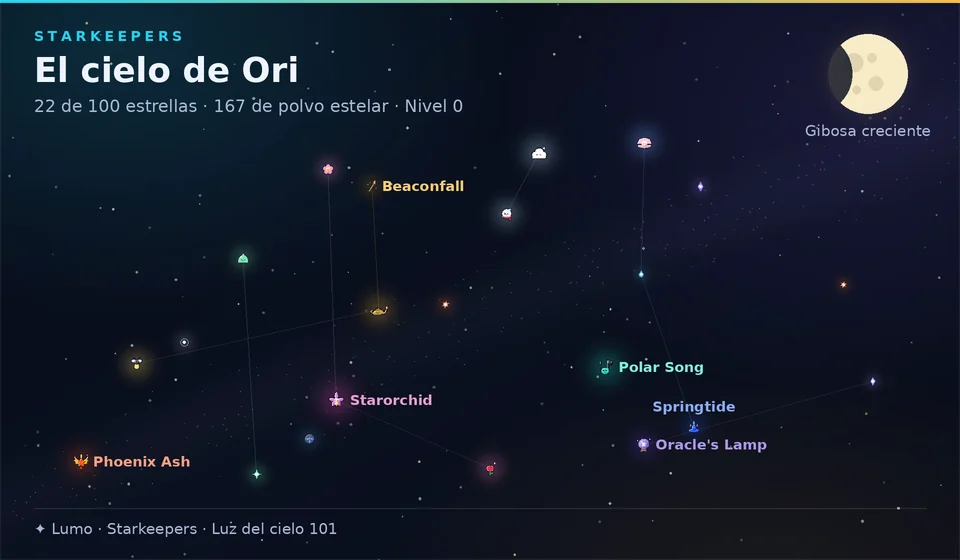
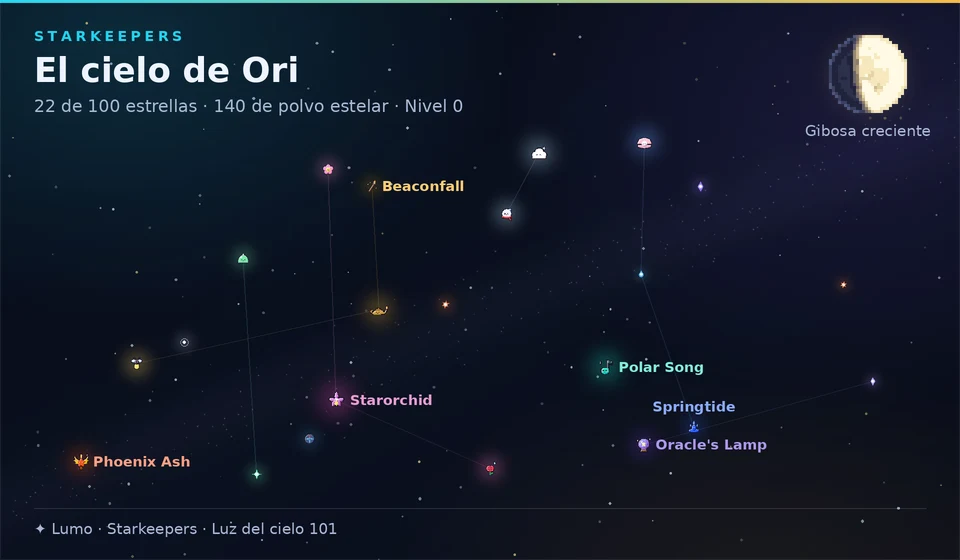
Moon's watch, lunar eclipse and pixel moons in the guide (4 languages) (#59)

Changed region(s): [[0.8438, 0.0607, 0.9688, 0.2125], [0.2188, 0.1821, 0.25, 0.2125]]

diff --git a/ja/starkeepers.html b/ja/starkeepers.html
@@ -4,7 +4,7 @@
   <meta charset="utf-8">
   <meta name="viewport" content="width=device-width, initial-scale=1">
   <title>Starkeepersの遊び方:Lumoの夜空ゲーム初心者ガイド</title>
-  <meta name="description" content="Starkeepersを一歩ずつ:毎晩の星つかまえ、レアリティとファミリー、明るさと光、自分の空とサーバーの空、星座、連続記録とタスク、旅、願い星、彗星群、実績、流れ星、日食。">
+  <meta name="description" content="Starkeepersを一歩ずつ:毎晩の星つかまえ、レアリティとファミリー、明るさと光、自分の空とサーバーの空、星座、連続記録とタスク、旅、願い星、彗星群、実績、流れ星、月食。">
   <meta name="theme-color" content="#0b0d14">
   <meta name="color-scheme" content="dark">
   <link rel="canonical" href="https://lumobot.org/ja/starkeepers.html">
@@ -95,7 +95,7 @@
         <div class="cta center"><a class="btn btn-primary" href="#start">ここから始めよう</a><a class="btn btn-ghost" href="features.html#starkeepers">機能ページを見る</a></div>
       </div>
     </header>
-    <nav class="guide-toc wrap" aria-label="このページの内容"><a href="#start"><span aria-hidden="true">🛠</span> はじめに</a><a href="#watch"><span aria-hidden="true">🔭</span> 夜の観測と星つかまえ</a><a href="#rarities"><span aria-hidden="true">✨</span> レアリティとファミリー</a><a href="#brightness"><span aria-hidden="true">🌟</span> 明るさと光</a><a href="#skies"><span aria-hidden="true">🌌</span> 自分の空とサーバーの空</a><a href="#constellations"><span aria-hidden="true">🗺</span> 星座・エリア・特典</a><a href="#streak"><span aria-hidden="true">🔥</span> 連続記録・タスク・サーバー目標</a><a href="#trips"><span aria-hidden="true">🧭</span> 星の旅とかけら</a><a href="#observatory"><span aria-hidden="true">🏛</span> 天文台</a><a href="#hunts"><span aria-hidden="true">⚔</span> ハントとバトルチーム</a><a href="#wish"><span aria-hidden="true">🌠</span> 願い星</a><a href="#shooting"><span aria-hidden="true">☄</span> 流れ星と彗星群</a><a href="#eclipse"><span aria-hidden="true">🌑</span> 日食</a><a href="#milestones"><span aria-hidden="true">🏅</span> 実績</a><a href="#story"><span aria-hidden="true">📖</span> ストーリー</a><a href="#tips"><span aria-hidden="true">💡</span> コツ</a><a href="#faq"><span aria-hidden="true">❓</span> よくある質問</a></nav>
+    <nav class="guide-toc wrap" aria-label="このページの内容"><a href="#start"><span aria-hidden="true">🛠</span> はじめに</a><a href="#watch"><span aria-hidden="true">🔭</span> 夜の観測と星つかまえ</a><a href="#rarities"><span aria-hidden="true">✨</span> レアリティとファミリー</a><a href="#brightness"><span aria-hidden="true">🌟</span> 明るさと光</a><a href="#skies"><span aria-hidden="true">🌌</span> 自分の空とサーバーの空</a><a href="#constellations"><span aria-hidden="true">🗺</span> 星座・エリア・特典</a><a href="#streak"><span aria-hidden="true">🔥</span> 連続記録・タスク・サーバー目標</a><a href="#trips"><span aria-hidden="true">🧭</span> 星の旅とかけら</a><a href="#observatory"><span aria-hidden="true">🏛</span> 天文台</a><a href="#hunts"><span aria-hidden="true">⚔</span> ハントとバトルチーム</a><a href="#wish"><span aria-hidden="true">🌠</span> 願い星</a><a href="#shooting"><span aria-hidden="true">☄</span> 流れ星と彗星群</a><a href="#eclipse"><span aria-hidden="true">🌑</span> 月食</a><a href="#milestones"><span aria-hidden="true">🏅</span> 実績</a><a href="#story"><span aria-hidden="true">📖</span> ストーリー</a><a href="#tips"><span aria-hidden="true">💡</span> コツ</a><a href="#faq"><span aria-hidden="true">❓</span> よくある質問</a></nav>
     <section class="section guide-sec" id="start">
       <div class="wrap guide-row guide-solo">
         <div class="guide-copy reveal">
@@ -190,7 +190,7 @@
         <div class="guide-copy reveal">
           <span class="kicker"><span aria-hidden="true">⚔</span> オプション · バトル</span>
           <h2>ハントとバトルチーム</h2>
-          <p>管理者がオフにしない限り、<b>翳り</b>が空を漂い、星を曇らせて近づく人に襲いかかるようにします。<code>/sky team</code> で自分の星を3つまで選び、<code>/sky hunt</code> で曇った星に挑もう。</p><ul class="checks"><li><b>チーム</b>：星にはそれぞれHP・攻撃・防御・素早さがあります。明るい星ほど少し強くなります。</li><li><b>勝つ</b>と星が<b>再点灯</b>：星屑が少しもらえて、その星が自分の空に加わるチャンスもあります（すでに持っている星なら明るくなります）。</li><li><b>負けて</b>も何も失いません。星たちは無事です。</li><li><b>クールダウン</b>：ハントは30秒に1回。ハントの星屑には毎晩の上限が別にあります。</li></ul><p>曇った星は解放済みのレア度からだけ現れ、チームに合わせて強さが決まるので、どのレベルでもフェアな勝負になります。</p><p><b>ストーリーボス</b>（管理者がオフにしない限りオン）：ストーリーの各章の最後に、翳りにのまれたボスが待っています。<code>/sky boss</code> で挑み、勝てば光が戻って次の章が開きます。負けても失うものはなく、すでに持っている章はそのままです。</p><p><b>星のプロフィール</b>：<code>/sky star</code>（またはキャッチ・コレクション・チーム・バトルのカードにある<b>見る</b>ボタン）で、どの星のページでも開けます。物語、バトルステータス、技とパッシブ、あなたの星の明るさと初めて再点灯した日。◀ ▶ で同じ系統をめくれます。まだ見つけていない星はシルエットとヒント、<b>願いにする</b>ボタンだけが表示されます。</p>
+          <p>管理者がオフにしない限り、<b>翳り</b>が空を漂い、星を曇らせて近づく人に襲いかかるようにします。<code>/sky team</code> で自分の星を3つまで選び、<code>/sky hunt</code> で曇った星に挑もう。</p><ul class="checks"><li><b>チーム</b>：星にはそれぞれHP・攻撃・防御・素早さがあります。明るい星ほど少し強くなります。</li><li><b>勝つ</b>と星が<b>再点灯</b>：星屑が少しもらえて、その星が自分の空に加わるチャンスもあります（すでに持っている星なら明るくなります）。</li><li><b>負けて</b>も何も失いません。星たちは無事です。</li><li><b>クールダウン</b>：ハントは30秒に1回。ハントの星屑には毎晩の上限が別にあります。</li></ul><p>曇った星は解放済みのレア度からだけ現れ、チームに合わせて強さが決まるので、どのレベルでもフェアな勝負になります。</p><p><b>ストーリーボス</b>（管理者がオフにしない限りオン）：ストーリーの各章の最後に、翳りにのまれたボスが待っています。<code>/sky boss</code> で挑み、勝てば光が戻って次の章が開きます。負けても失うものはなく、すでに持っている章はそのままです。</p><p><b>月も見守っています</b>：満ち欠けごとにひとつのファミリーを呼び寄せます（その星が出やすくなります）。<b>新月</b>は翳りの夜。ハントが手ごわくなり、よりレアな星が出ることも。星屑は1.5倍（1晩の上限内）。<b>満月</b>は再点灯した星が仲間になりやすく、<b>半月</b>は旅のかけらが1つ増えます。</p><p><b>星のプロフィール</b>：<code>/sky star</code>（またはキャッチ・コレクション・チーム・バトルのカードにある<b>見る</b>ボタン）で、どの星のページでも開けます。物語、バトルステータス、技とパッシブ、あなたの星の明るさと初めて再点灯した日。◀ ▶ で同じ系統をめくれます。まだ見つけていない星はシルエットとヒント、<b>願いにする</b>ボタンだけが表示されます。</p>
         </div>
         <div class="stage reveal" data-d="1"><img class="guide-shot" src="../assets/guide/ja/hunt.webp" alt="ストーリーボス戦：3つの星のチームでボスと2体の手下に挑む" width="480" height="360" loading="lazy" decoding="async"></div>
       </div>
@@ -219,10 +219,10 @@
       <div class="wrap guide-row guide-flip">
         <div class="guide-copy reveal">
           <span class="kicker"><span aria-hidden="true">🌑</span> 月に一度</span>
-          <h2>日食</h2>
-          <p>月に一度、空が2晩暗くなります。<b>日食リング</b>エリアが開き、レアやセレスティアルの星が少し出やすくなり、どの月の星も現れる可能性があり、星がたくさん降ります。</p>
+          <h2>月食</h2>
+          <p>月に一度、世界の影が月を横切り、2晩のあいだ月を赤く染めます。<b>月食リング</b>エリアが開き、レアやセレスティアルの星が少し出やすくなり、どの月の星も現れる可能性があり、星がたくさん降ります。</p>
         </div>
-        <div class="stage reveal" data-d="1"><img class="guide-shot" src="../assets/guide/ja/eclipse.webp" alt="Discordで表示される日食のアニメーション" width="420" height="236" loading="lazy" decoding="async"></div>
+        <div class="stage reveal" data-d="1"><img class="guide-shot" src="../assets/guide/ja/eclipse.webp" alt="Discordで表示される月食のアニメーション" width="420" height="236" loading="lazy" decoding="async"></div>
       </div>
     </section>
     <section class="section guide-sec" id="milestones">
@@ -240,7 +240,7 @@
         <div class="guide-copy reveal">
           <span class="kicker"><span aria-hidden="true">📖</span> 世界の物語</span>
           <h2>ストーリー</h2>
-          <p>星は壊されたのではなく、忘れられただけ。だれにも見上げられない空は、少しずつ暗くなっていきます。小さなランプロボットの<b>Lumo</b>はランタンを灯し続け、<b>全8章</b>と幕間でその物語を語ります。</p><ul class="checks"><li>章は、あなたとサーバーが遊ぶほど開いていきます。はじめての星、最初に灯った星座、新しい地域、日食など。</li><li>どの章でも<b>称号</b>がもらえ、新しい<b>背景</b>がもらえる章もあります。</li><li><code>/sky story</code> で読めます。</li></ul>
+          <p>星は壊されたのではなく、忘れられただけ。だれにも見上げられない空は、少しずつ暗くなっていきます。小さなランプロボットの<b>Lumo</b>はランタンを灯し続け、<b>全8章</b>と幕間でその物語を語ります。</p><ul class="checks"><li>章は、あなたとサーバーが遊ぶほど開いていきます。はじめての星、最初に灯った星座、新しい地域、月食など。</li><li>どの章でも<b>称号</b>がもらえ、新しい<b>背景</b>がもらえる章もあります。</li><li><code>/sky story</code> で読めます。</li></ul>
         </div>
         <div class="stage reveal" data-d="1"><img class="guide-shot" src="../assets/guide/ja/story.webp" alt="第1章「小さなランプ」のページ。手をふるLumo" width="720" height="780" loading="lazy" decoding="async"></div>
       </div>

diff --git a/es/starkeepers.html b/es/starkeepers.html
@@ -190,7 +190,7 @@
         <div class="guide-copy reveal">
           <span class="kicker"><span aria-hidden="true">⚔</span> Opcional · batallas</span>
           <h2>Cacerías y equipos de batalla</h2>
-          <p>Salvo que un admin lo desactive, la <b>Penumbra</b> recorre el cielo y apaga estrellas hasta que se vuelven contra quien se acerque. Elige hasta 3 de tus estrellas con <code>/sky team</code> y luego usa <code>/sky hunt</code> para enfrentarte a una estrella apagada.</p><ul class="checks"><li><b>Tu equipo</b>: cada estrella tiene sus propios PV, ataque, defensa y velocidad. Las más brillantes son algo más fuertes.</li><li><b>Gana</b> y la estrella queda <b>reavivada</b>: recibes un poco de polvo estelar y una probabilidad de que se una a tu cielo (una copia de una estrella que ya tienes la hace más brillante).</li><li><b>Pierde</b> y no pierdes nada. Tus estrellas están bien.</li><li><b>Espera</b>: una cacería cada 30 segundos, y el polvo estelar de las cacerías tiene su propio límite nocturno.</li></ul><p>Las estrellas apagadas solo salen de rarezas que ya desbloqueaste y se ajustan a tu equipo, así que cada cacería es una pelea justa en cualquier nivel.</p><p><b>Jefes de la historia</b> (activados salvo que un admin los desactive): cada capítulo de la historia termina con un jefe que la Penumbra se tragó. Enfréntalo con <code>/sky boss</code>; gana para reavivarlo y abrir el siguiente capítulo. Perder no cuesta nada y los capítulos que ya tienes siguen siendo tuyos.</p><p><b>Perfiles de estrellas</b>: <code>/sky star</code> (o el botón <b>Ver</b> en las tarjetas de captura, colección, equipo y combate) abre la página de cualquier estrella: su historia, estadísticas, movimientos y pasiva, cuánto brilla la tuya y cuándo la reavivaste por primera vez. ◀ ▶ recorren su familia. Una estrella que aún no has encontrado solo muestra su silueta y una pista, con un botón <b>Pedir deseo</b>.</p>
+          <p>Salvo que un admin lo desactive, la <b>Penumbra</b> recorre el cielo y apaga estrellas hasta que se vuelven contra quien se acerque. Elige hasta 3 de tus estrellas con <code>/sky team</code> y luego usa <code>/sky hunt</code> para enfrentarte a una estrella apagada.</p><ul class="checks"><li><b>Tu equipo</b>: cada estrella tiene sus propios PV, ataque, defensa y velocidad. Las más brillantes son algo más fuertes.</li><li><b>Gana</b> y la estrella queda <b>reavivada</b>: recibes un poco de polvo estelar y una probabilidad de que se una a tu cielo (una copia de una estrella que ya tienes la hace más brillante).</li><li><b>Pierde</b> y no pierdes nada. Tus estrellas están bien.</li><li><b>Espera</b>: una cacería cada 30 segundos, y el polvo estelar de las cacerías tiene su propio límite nocturno.</li></ul><p>Las estrellas apagadas solo salen de rarezas que ya desbloqueaste y se ajustan a tu equipo, así que cada cacería es una pelea justa en cualquier nivel.</p><p><b>Jefes de la historia</b> (activados salvo que un admin los desactive): cada capítulo de la historia termina con un jefe que la Penumbra se tragó. Enfréntalo con <code>/sky boss</code>; gana para reavivarlo y abrir el siguiente capítulo. Perder no cuesta nada y los capítulos que ya tienes siguen siendo tuyos.</p><p><b>La luna también vigila</b>: cada fase acerca una familia (sus estrellas salen más a menudo). La <b>luna nueva</b> es noche de Penumbra: las cacerías son más duras y pueden traer una estrella más rara, con 1,5× de polvo estelar dentro del límite diario. La <b>luna llena</b> hace que una estrella reavivada se una a ti con algo más de probabilidad, y la <b>media luna</b> añade un fragmento a los viajes.</p><p><b>Perfiles de estrellas</b>: <code>/sky star</code> (o el botón <b>Ver</b> en las tarjetas de captura, colección, equipo y combate) abre la página de cualquier estrella: su historia, estadísticas, movimientos y pasiva, cuánto brilla la tuya y cuándo la reavivaste por primera vez. ◀ ▶ recorren su familia. Una estrella que aún no has encontrado solo muestra su silueta y una pista, con un botón <b>Pedir deseo</b>.</p>
         </div>
         <div class="stage reveal" data-d="1"><img class="guide-shot" src="../assets/guide/es/hunt.webp" alt="Una pelea contra un jefe de la historia: tu equipo de tres contra un jefe y sus dos secuaces" width="480" height="360" loading="lazy" decoding="async"></div>
       </div>
@@ -220,7 +220,7 @@
         <div class="guide-copy reveal">
           <span class="kicker"><span aria-hidden="true">🌑</span> Una vez al mes</span>
           <h2>El eclipse</h2>
-          <p>Una vez al mes el cielo se oscurece dos noches. Se abre la región del <b>Anillo del Eclipse</b>, las estrellas raras y celestiales salen un poco más, puede aparecer cualquier estrella de luna y caen más estrellas.</p>
+          <p>Una vez al mes la sombra del mundo cruza la luna y la vuelve roja durante dos noches. Se abre la región del <b>Anillo del Eclipse</b>, las estrellas raras y celestiales salen un poco más, puede aparecer cualquier estrella de luna y caen más estrellas.</p>
         </div>
         <div class="stage reveal" data-d="1"><img class="guide-shot" src="../assets/guide/es/eclipse.webp" alt="La animación del eclipse tal como aparece en Discord" width="420" height="236" loading="lazy" decoding="async"></div>
       </div>

diff --git a/pt-br/starkeepers.html b/pt-br/starkeepers.html
@@ -190,7 +190,7 @@
         <div class="guide-copy reveal">
           <span class="kicker"><span aria-hidden="true">⚔</span> Opcional · batalhas</span>
           <h2>Caçadas e times de batalha</h2>
-          <p>A menos que um admin desligue, a <b>Penumbra</b> atravessa o céu e apaga estrelas até elas se voltarem contra quem chega perto. Escolha até 3 das suas estrelas com <code>/sky team</code> e depois use <code>/sky hunt</code> para enfrentar uma estrela apagada.</p><ul class="checks"><li><b>Seu time</b>: cada estrela tem seus próprios PV, ataque, defesa e velocidade. Estrelas mais brilhantes são um pouco mais fortes.</li><li><b>Vença</b> e a estrela é <b>reacesa</b>: você ganha um pouco de poeira estelar e uma chance de ela entrar no seu céu (uma cópia de uma estrela que você já tem a deixa mais brilhante).</li><li><b>Perca</b> e nada é perdido. Suas estrelas estão bem.</li><li><b>Espera</b>: uma caçada a cada 30 segundos, e a poeira estelar das caçadas tem seu próprio limite por noite.</li></ul><p>As estrelas apagadas só vêm de raridades que você já desbloqueou e se ajustam ao seu time, então cada caçada é uma luta justa em qualquer nível.</p><p><b>Chefes da história</b> (ligados, a menos que um admin desligue): cada capítulo da história termina com um chefe que a Penumbra engoliu. Enfrente-o com <code>/sky boss</code>; vença para reacendê-lo e abrir o próximo capítulo. Perder não custa nada, e os capítulos que você já tem continuam seus.</p><p><b>Perfis de estrelas</b>: <code>/sky star</code> (ou o botão <b>Ver</b> nos cartões de captura, coleção, equipe e batalha) abre a página de qualquer estrela: sua história, atributos, golpes e passiva, o brilho da sua e quando você a reacendeu pela primeira vez. ◀ ▶ percorrem a família. Uma estrela que você ainda não encontrou mostra só a silhueta e uma dica, com um botão <b>Fazer desejo</b>.</p>
+          <p>A menos que um admin desligue, a <b>Penumbra</b> atravessa o céu e apaga estrelas até elas se voltarem contra quem chega perto. Escolha até 3 das suas estrelas com <code>/sky team</code> e depois use <code>/sky hunt</code> para enfrentar uma estrela apagada.</p><ul class="checks"><li><b>Seu time</b>: cada estrela tem seus próprios PV, ataque, defesa e velocidade. Estrelas mais brilhantes são um pouco mais fortes.</li><li><b>Vença</b> e a estrela é <b>reacesa</b>: você ganha um pouco de poeira estelar e uma chance de ela entrar no seu céu (uma cópia de uma estrela que você já tem a deixa mais brilhante).</li><li><b>Perca</b> e nada é perdido. Suas estrelas estão bem.</li><li><b>Espera</b>: uma caçada a cada 30 segundos, e a poeira estelar das caçadas tem seu próprio limite por noite.</li></ul><p>As estrelas apagadas só vêm de raridades que você já desbloqueou e se ajustam ao seu time, então cada caçada é uma luta justa em qualquer nível.</p><p><b>Chefes da história</b> (ligados, a menos que um admin desligue): cada capítulo da história termina com um chefe que a Penumbra engoliu. Enfrente-o com <code>/sky boss</code>; vença para reacendê-lo e abrir o próximo capítulo. Perder não custa nada, e os capítulos que você já tem continuam seus.</p><p><b>A lua também vigia</b>: cada fase chama uma família para perto (suas estrelas aparecem mais). A <b>lua nova</b> é noite de Penumbra: as caçadas ficam mais difíceis e podem trazer uma estrela mais rara, com 1,5× de poeira estelar dentro do limite da noite. A <b>lua cheia</b> deixa uma estrela reacesa um pouco mais propensa a ficar com você, e a <b>meia-lua</b> soma um fragmento às viagens.</p><p><b>Perfis de estrelas</b>: <code>/sky star</code> (ou o botão <b>Ver</b> nos cartões de captura, coleção, equipe e batalha) abre a página de qualquer estrela: sua história, atributos, golpes e passiva, o brilho da sua e quando você a reacendeu pela primeira vez. ◀ ▶ percorrem a família. Uma estrela que você ainda não encontrou mostra só a silhueta e uma dica, com um botão <b>Fazer desejo</b>.</p>
         </div>
         <div class="stage reveal" data-d="1"><img class="guide-shot" src="../assets/guide/pt-br/hunt.webp" alt="Uma luta contra um chefe da história: seu time de três contra um chefe e seus dois capangas" width="480" height="360" loading="lazy" decoding="async"></div>
       </div>
@@ -220,7 +220,7 @@
         <div class="guide-copy reveal">
           <span class="kicker"><span aria-hidden="true">🌑</span> Uma vez por mês</span>
           <h2>O eclipse</h2>
-          <p>Uma vez por mês o céu escurece por duas noites. A região do <b>Anel do Eclipse</b> se abre, estrelas raras e celestiais aparecem um pouco mais, qualquer estrela lunar pode surgir e caem mais estrelas.</p>
+          <p>Uma vez por mês a sombra do mundo cruza a lua e a deixa vermelha por duas noites. A região do <b>Anel do Eclipse</b> se abre, estrelas raras e celestiais aparecem um pouco mais, qualquer estrela lunar pode surgir e caem mais estrelas.</p>
         </div>
         <div class="stage reveal" data-d="1"><img class="guide-shot" src="../assets/guide/pt-br/eclipse.webp" alt="A animação do eclipse como aparece no Discord" width="420" height="236" loading="lazy" decoding="async"></div>
       </div>

diff --git a/ja/features.html b/ja/features.html
@@ -326,7 +326,7 @@
         <article class="bento-tile b-1 reveal"><span class="f-icon" aria-hidden="true">📊</span><div><h3>プロフィール＆ランク <span class="badge b-any">無料</span></h3><p>レベルと集められる14種類のバッジがわかる<code>/profile</code>カード、<code>/top</code>ランキング、<code>/server</code>のサーバー概要。</p></div></article>
         <article class="bento-tile b-1 reveal"><span class="f-icon" aria-hidden="true">👋</span><div><h3>ウェルカムカード <span class="badge b-any">無料</span></h3><p>新メンバー全員にアバターと名前入りのウェルカムカード。文面はダッシュボードで変更できます。</p></div></article>
         <article class="bento-tile b-1 reveal"><span class="f-icon" aria-hidden="true">🌟</span><div><h3>レベル <span class="badge b-any">無料</span></h3><p>チャットやボイスの時間でXPとレベルが上がります（全サーバー共通の仕組み）。<code>/rank</code>カードと<code>/top</code>のレベルランキングつき。レベルアップ通知とレベルロールはダッシュボードでオンにできます。</p></div></article>
-        <article class="bento-tile b-1 reveal"><span class="f-icon" aria-hidden="true">🌌</span><div><h3>Starkeepers <span class="badge b-any">無料</span> <span class="badge b-beta">ベータ</span></h3><p>Lumo の夜空ゲーム：<code>/sky watch</code> で毎晩星をつかまえ（満月は5個、月の満ち欠けで出る星も）、チャットやゲームでためた星くずで明るくし、<code>/sky view</code> で自分の空をながめよう。みんなで <code>/sky server</code> を使い、サーバーの空にある16の星座（6つの地域に14、日食の環のイベント中だけひらく2）に星を置いて、バッジと小さなサーバー特典を手に入れよう。管理者がえらんだチャンネルには流れ星が落ち（最初にボタンを押した3人がつかまえます）、毎月の日食で日食の環がひらき、<code>/top</code> には星の観測者ランキングがあります。集められる星は100個、交換はありません。最初からオンです（管理者はダッシュボードでオフにできます）。</p></div></article>
+        <article class="bento-tile b-1 reveal"><span class="f-icon" aria-hidden="true">🌌</span><div><h3>Starkeepers <span class="badge b-any">無料</span> <span class="badge b-beta">ベータ</span></h3><p>Lumo の夜空ゲーム：<code>/sky watch</code> で毎晩星をつかまえ（満月は5個、月の満ち欠けで出る星も）、チャットやゲームでためた星くずで明るくし、<code>/sky view</code> で自分の空をながめよう。みんなで <code>/sky server</code> を使い、サーバーの空にある16の星座（6つの地域に14、月食の環のイベント中だけひらく2）に星を置いて、バッジと小さなサーバー特典を手に入れよう。管理者がえらんだチャンネルには流れ星が落ち（最初にボタンを押した3人がつかまえます）、毎月の月食で月食の環がひらき、<code>/top</code> には星の観測者ランキングがあります。集められる星は100個、交換はありません。最初からオンです（管理者はダッシュボードでオフにできます）。</p></div></article>
         <article class="bento-tile b-1 reveal"><span class="f-icon" aria-hidden="true">🖥</span><div><h3>Webダッシュボード（ベータ） <span class="badge b-any">無料</span></h3><p>サーバー管理者はDiscordでログインして、ウェルカムカードのカスタマイズ、ログと参加時ロールの設定、リアクションロール・レベル・カスタマイズ・プレゼント企画・投票の管理、利用状況の確認ができます。</p></div></article>
         <article class="bento-tile b-1 reveal"><span class="f-icon" aria-hidden="true">🧭</span><div><h3>AIチャンネル <span class="badge b-premium">Premium</span></h3><p>LumoのAIチャットが返信する場所を管理者が選べます：全チャンネル、一部のチャンネルだけ、一部を除く全チャンネル。チャンネルごとの口調や、メンションされたときだけ返信する設定も可能です。</p></div></article>
         <article class="bento-tile b-1 reveal"><span class="f-icon" aria-hidden="true">⚖</span><div><h3>公正利用の上限 <span class="badge b-premium">Premium</span></h3><p>1人あたりAI返信は1日20回、画像・動画は月2件。サーバーあたりAI返信は1日100回、画像・動画は月15件。音楽、ゲーム、プレゼント企画、投票はカウントされません。</p></div></article>

diff --git a/starkeepers.html b/starkeepers.html
@@ -189,7 +189,7 @@
         <div class="guide-copy reveal">
           <span class="kicker"><span aria-hidden="true">⚔</span> Optional · battles</span>
           <h2>Hunts and battle teams</h2>
-          <p>Unless an admin turns it off, the <b>Dimming</b> drifts across the sky and dulls stars until they turn on anyone who comes near. Pick up to 3 of your stars with <code>/sky team</code>, then run <code>/sky hunt</code> to face a dimmed star.</p><ul class="checks"><li><b>Your team</b>: every star has its own HP, attack, defense and speed. Brighter stars are a little stronger.</li><li><b>Win</b> and the star is <b>rekindled</b>: you get a little stardust and a chance it joins your sky (a copy of a star you have makes it brighter).</li><li><b>Lose</b> and nothing is lost. Your stars are fine.</li><li><b>Cooldown</b>: one hunt every 30 seconds, and hunt stardust has its own nightly cap.</li></ul><p>Dimmed stars only come from rarities you’ve unlocked, and they’re matched to your team, so a hunt is a fair fight at any level.</p><p><b>Story bosses</b> (on unless an admin turns them off): every story chapter ends with a boss the Dimming swallowed. Face it with <code>/sky boss</code>; win to rekindle it and open the next chapter. Losing costs nothing, and chapters you already have stay yours.</p><p><b>Star profiles</b>: <code>/sky star</code> (or the <b>View</b> button on catch, collection, team and battle cards) opens any star’s page: its lore, battle stats, moves and passive, how bright yours is and when you first rekindled it. ◀ ▶ step through its family. A star you haven’t found yet shows only its silhouette and a hint, with a <b>Set wish</b> button.</p>
+          <p>Unless an admin turns it off, the <b>Dimming</b> drifts across the sky and dulls stars until they turn on anyone who comes near. Pick up to 3 of your stars with <code>/sky team</code>, then run <code>/sky hunt</code> to face a dimmed star.</p><ul class="checks"><li><b>Your team</b>: every star has its own HP, attack, defense and speed. Brighter stars are a little stronger.</li><li><b>Win</b> and the star is <b>rekindled</b>: you get a little stardust and a chance it joins your sky (a copy of a star you have makes it brighter).</li><li><b>Lose</b> and nothing is lost. Your stars are fine.</li><li><b>Cooldown</b>: one hunt every 30 seconds, and hunt stardust has its own nightly cap.</li></ul><p>Dimmed stars only come from rarities you’ve unlocked, and they’re matched to your team, so a hunt is a fair fight at any level.</p><p><b>Story bosses</b> (on unless an admin turns them off): every story chapter ends with a boss the Dimming swallowed. Face it with <code>/sky boss</code>; win to rekindle it and open the next chapter. Losing costs nothing, and chapters you already have stay yours.</p><p><b>The moon keeps watch too</b>: each phase calls one family closer (its stars show up more often). A <b>new moon</b> is a Dimming night: hunts are tougher and can bring a rarer star, for 1.5× stardust inside the nightly cap. A <b>full moon</b> makes a rekindled star a little likelier to join you, and a <b>half moon</b> adds a fragment to trips.</p><p><b>Star profiles</b>: <code>/sky star</code> (or the <b>View</b> button on catch, collection, team and battle cards) opens any star’s page: its lore, battle stats, moves and passive, how bright yours is and when you first rekindled it. ◀ ▶ step through its family. A star you haven’t found yet shows only its silhouette and a hint, with a <b>Set wish</b> button.</p>
         </div>
         <div class="stage reveal" data-d="1"><img class="guide-shot" src="assets/guide/en/hunt.webp" alt="A story boss fight: your team of three against a boss and its two minions" width="480" height="360" loading="lazy" decoding="async"></div>
       </div>
@@ -219,7 +219,7 @@
         <div class="guide-copy reveal">
           <span class="kicker"><span aria-hidden="true">🌑</span> Once a month</span>
           <h2>The eclipse</h2>
-          <p>Once a month the sky goes dark for two nights. The <b>Eclipse Ring</b> region opens, rare and celestial stars show up a little more often, every moon star can appear, and more stars fall.</p>
+          <p>Once a month the world’s shadow crosses the moon and turns it red for two nights. The <b>Eclipse Ring</b> region opens, rare and celestial stars show up a little more often, every moon star can appear, and more stars fall.</p>
         </div>
         <div class="stage reveal" data-d="1"><img class="guide-shot" src="assets/guide/en/eclipse.webp" alt="The eclipse animation as it appears in Discord" width="420" height="236" loading="lazy" decoding="async"></div>
       </div>

diff --git a/ja/commands.html b/ja/commands.html
@@ -164,7 +164,7 @@
 </article>
 <article class="cmd" data-cat="games" data-search="/sky server /sky constellations starkeepers: the shared server sky. place your stars into constellations and light them together. shows the server sky picture with all 16 constellations (14 across six regions, plus 2 during the Eclipse Ring event). a constellation lights for good when every slot is filled and it has enough light; brighter, rarer stars count more. everyone who helped gets its badge and the server gets a small perk (never bought).">
   <header><button class="cmd-name" type="button" data-copy="/sky server" title="コピー">/sky server</button><span class="badges"><span class="badge b-any">全員</span></span></header>
-  <p>Starkeepers：みんなで作るサーバーの夜空。星座に星を置いて、いっしょに点灯させよう。16の星座すべて（6つの地域に14、日食の環のイベント中に2）があるサーバーの夜空の画像を表示します。すべての枠が埋まり光が足りると、星座はずっと点灯します。明るくレアな星ほど多く数えられます。手伝った全員がバッジを、サーバーは小さな特典（購入不可）を手に入れます。</p><p><code>/sky constellations</code> でも使えます。</p>
+  <p>Starkeepers：みんなで作るサーバーの夜空。星座に星を置いて、いっしょに点灯させよう。16の星座すべて（6つの地域に14、月食の環のイベント中に2）があるサーバーの夜空の画像を表示します。すべての枠が埋まり光が足りると、星座はずっと点灯します。明るくレアな星ほど多く数えられます。手伝った全員がバッジを、サーバーは小さな特典（購入不可）を手に入れます。</p><p><code>/sky constellations</code> でも使えます。</p>
 </article>
 <article class="cmd" data-cat="games" data-search="/sky trip starkeepers: send one of your stars on a 2-hour trip. collect it for fragments of its family; 10 fragments of one family make one of its stars brighter.">
   <header><button class="cmd-name" type="button" data-copy="/sky trip" title="コピー">/sky trip</button><span class="badges"><span class="badge b-any">全員</span></span></header>
